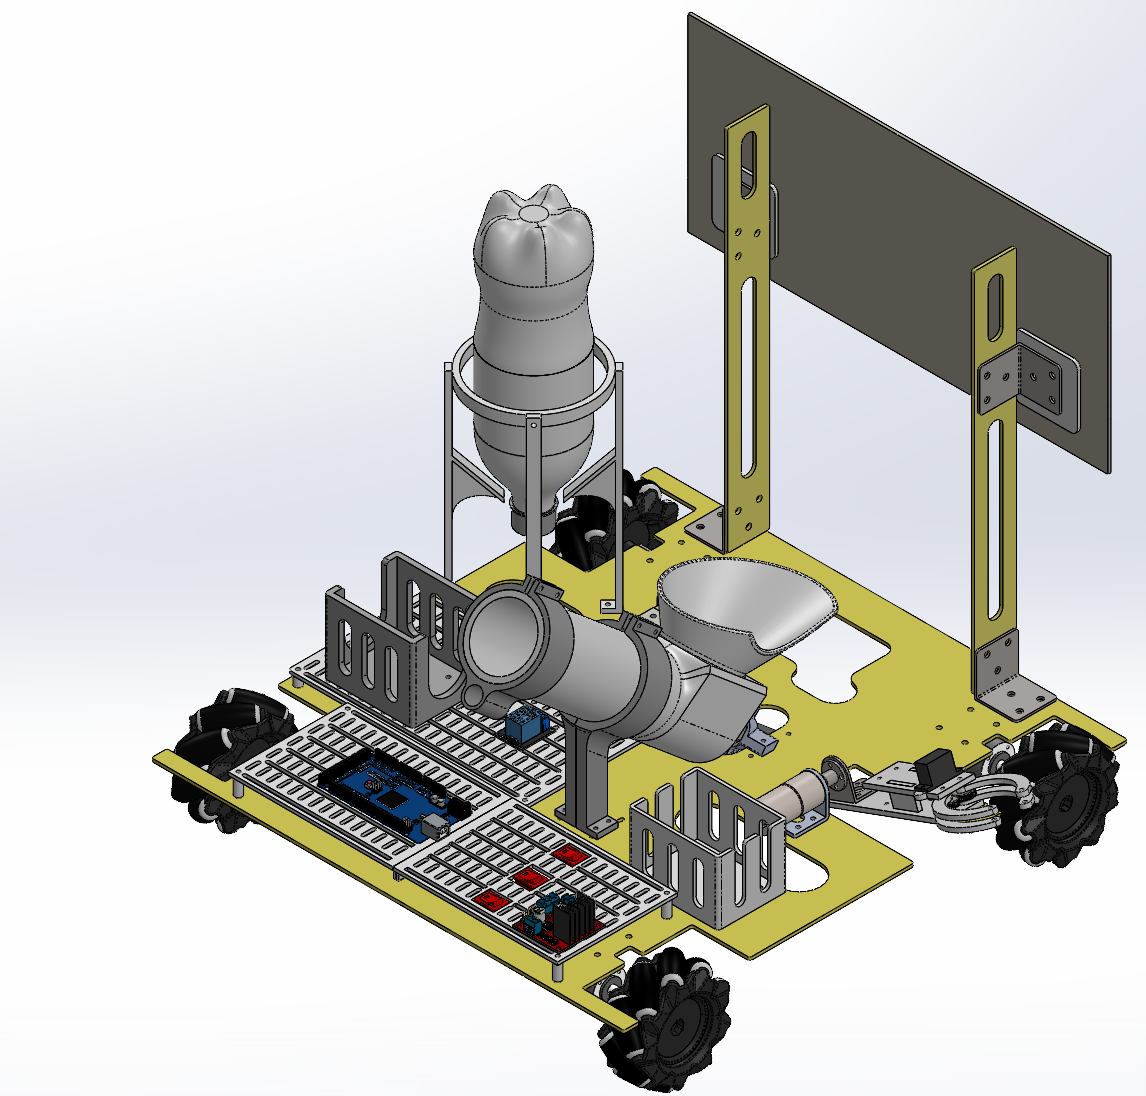
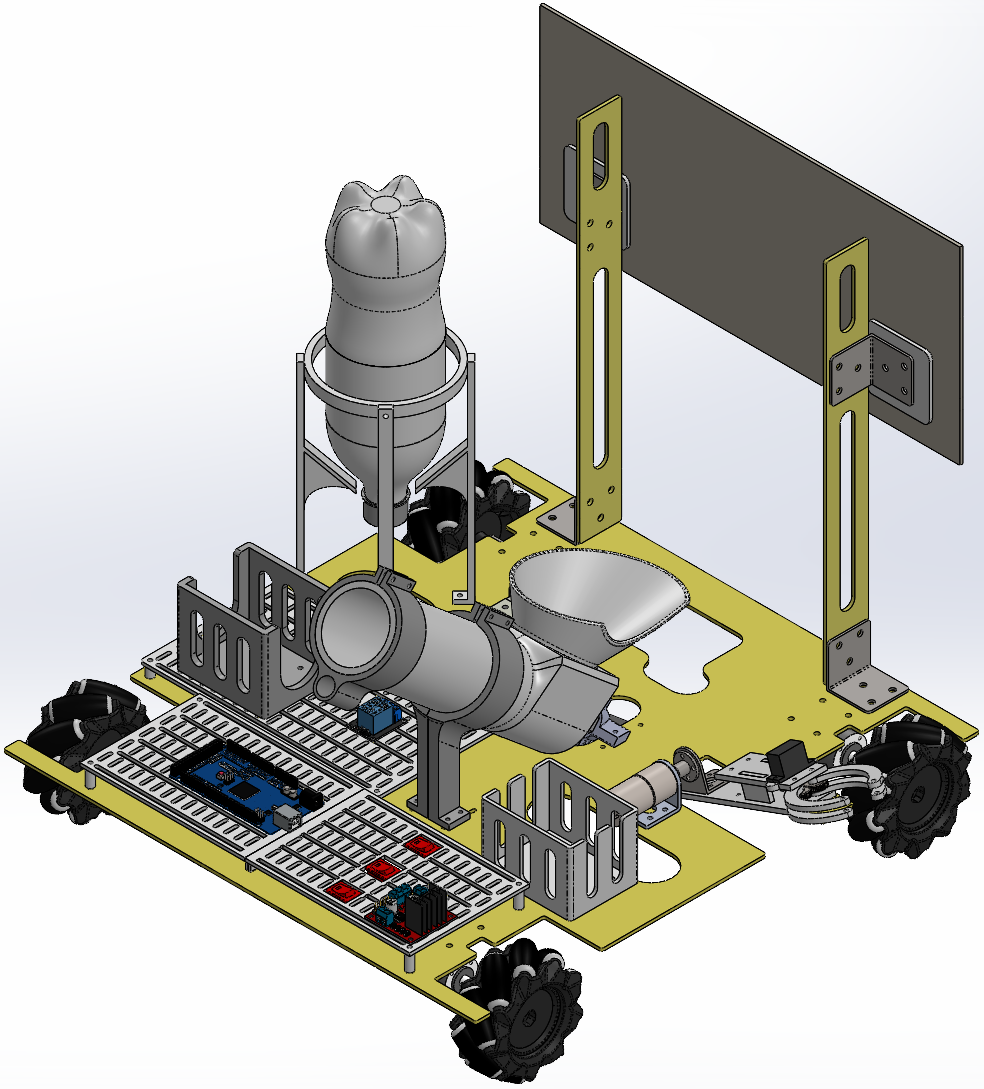
Markdown Update

diff --git a/README.md b/README.md
@@ -62,3 +62,11 @@ PS2X ps2x; // PS2对象定义
 ### 气缸控制
 
 气缸的主要难点在于气路的搭建，电控部分较易，即直接使用继电器控制电磁阀与24V电池的通断即可。
+
+## 写在最后
+
+本项目为作者打开嵌入式开发大门的第一个开发项目，为校机器人大赛所用，上传在这里，也是为自己的项目开发历程留下一点足迹。
+
+感谢“追求卓越”战队的所有队友，感谢机械科学与工程学院为我们打造的平台，让我们的机械设计和控制水平在大学初期就得到较大的提升。
+
+由于本人非计算机/嵌入式专业，水平有限，若有遗漏，敬请斧正，欢迎在Github提交Issue进行交流讨论，在此一并感谢！
